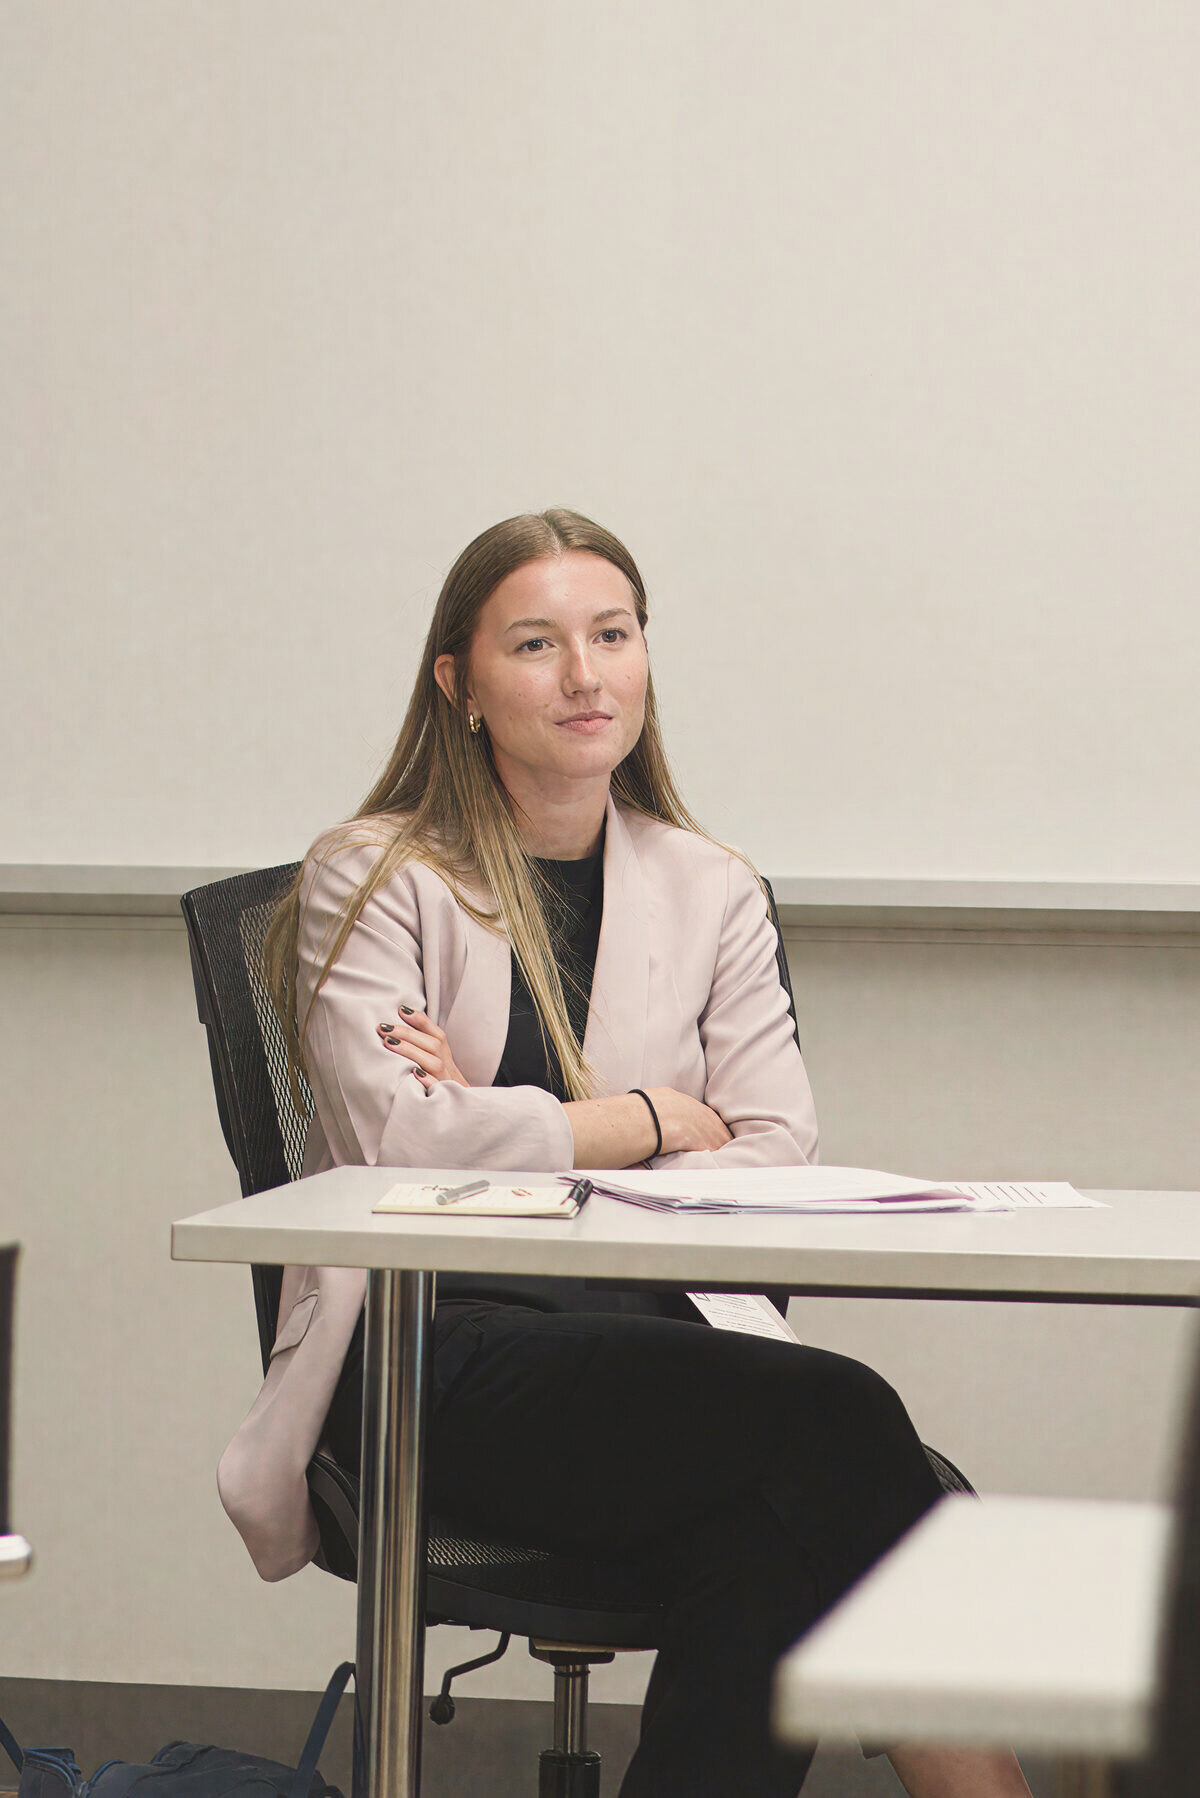
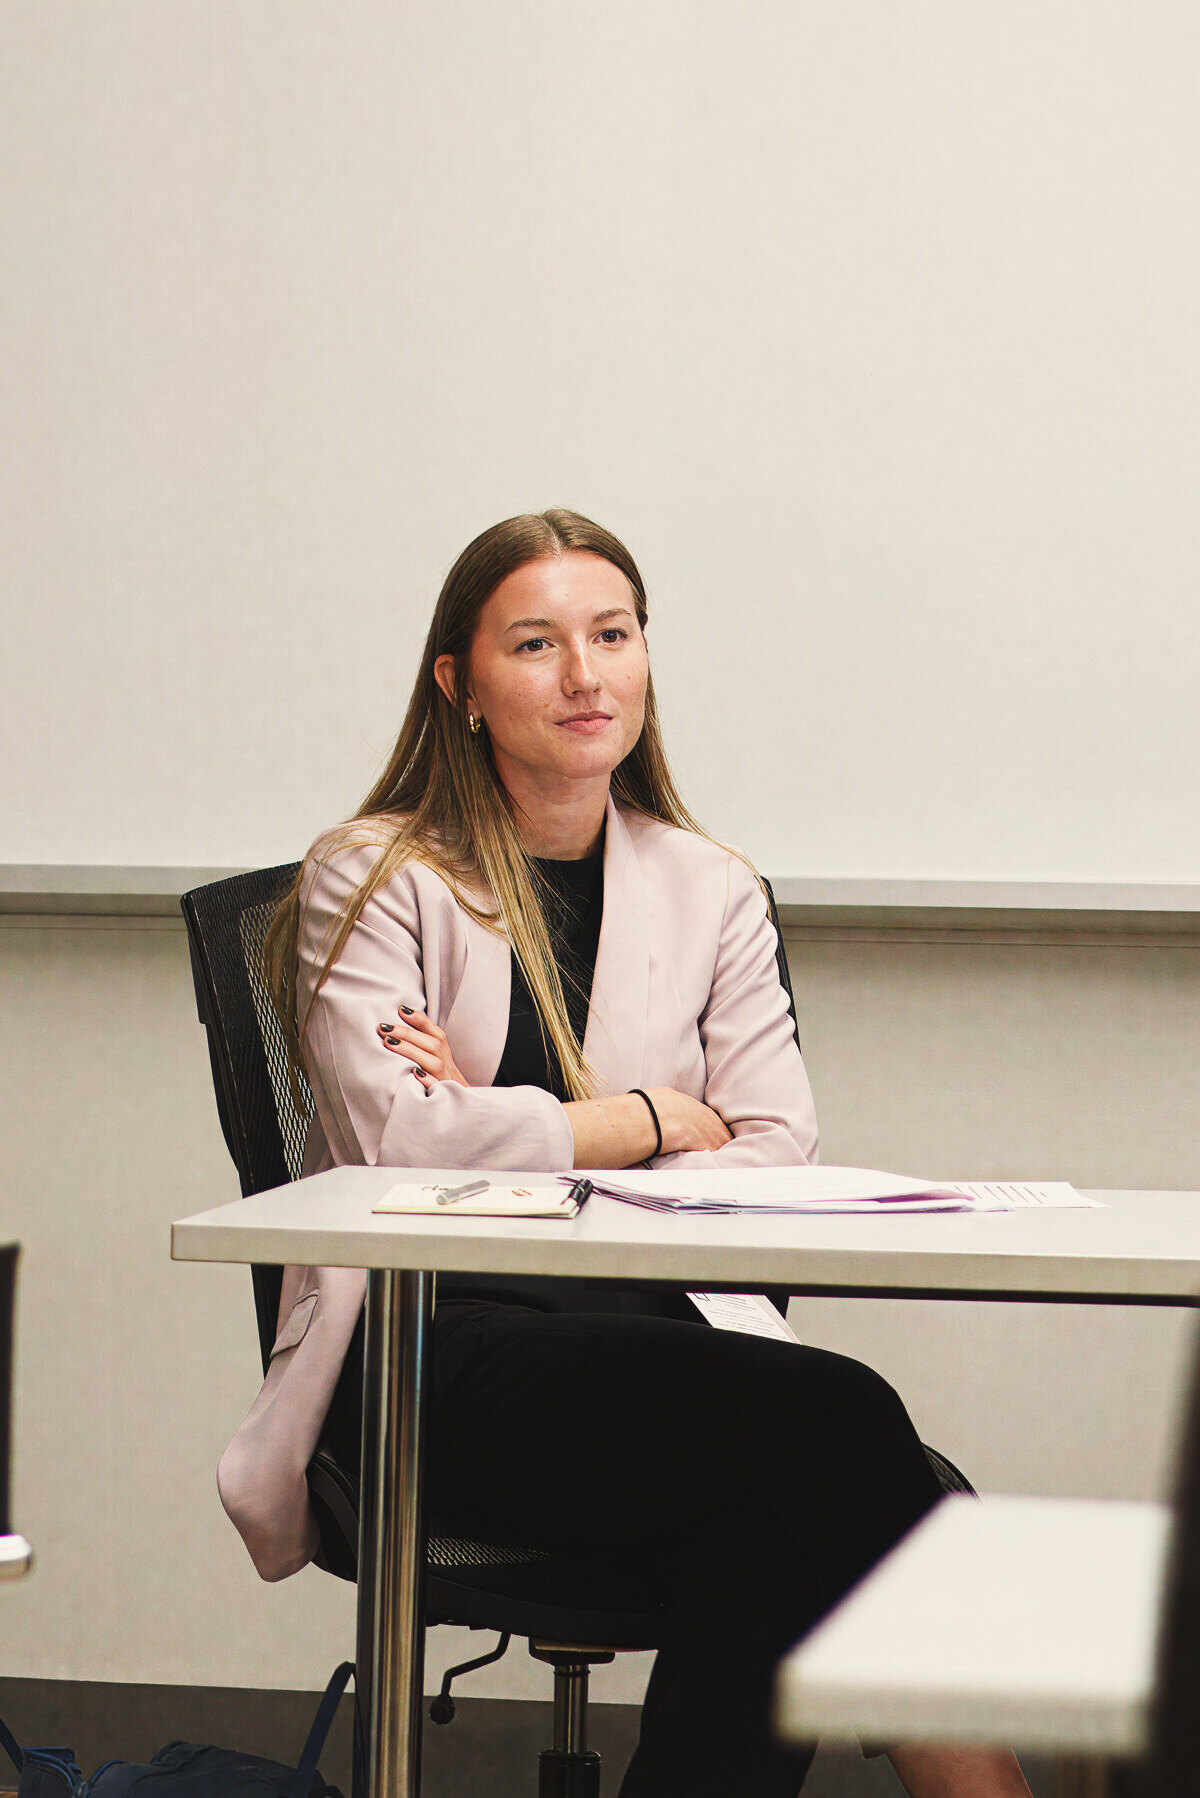
Correct Beth's and Alayna's photos so they match the rest
Beth's portrait ran orange (cream wall, red cardigan) and Alayna's was
washed out by the bright room. Each now gets a correction before the
shared grade, recorded in grade-photos.sh. Caleb's caption now names
his backyard in St. Catharines.

diff --git a/impact-report-2025-26/index.html b/impact-report-2025-26/index.html
@@ -572,7 +572,7 @@
     <section class="sheet feature-a mirror" aria-label="Caleb Ratzlaff" data-section-part="students">
       <figure class="photo">
         <img src="img/caleb-ratzlaff.jpg" alt="Caleb Ratzlaff, in a cream T-shirt, leaning back in an outdoor chair and laughing as he looks off to one side." width="1200" height="1798">
-        <figcaption>Caleb Ratzlaff during his interview with ICS, November 2026</figcaption>
+        <figcaption>Caleb Ratzlaff in his backyard in St. Catharines, November 2026</figcaption>
       </figure>
       <div class="text">
         <div class="runhead"><span class="sc"><span class="r">ii.</span> Our Students</span><span>7</span></div>
